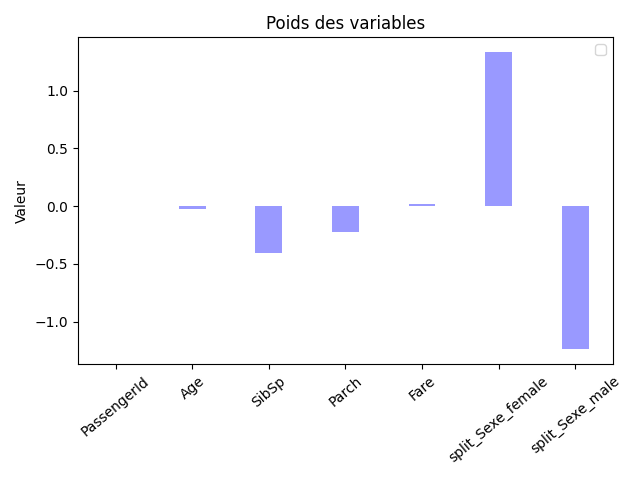
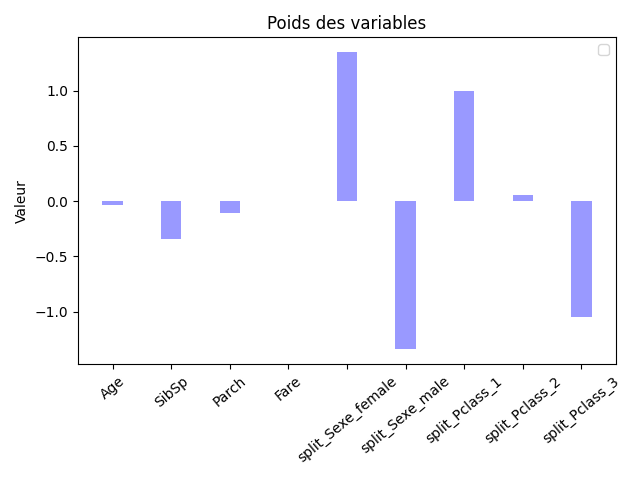
fix: changement

diff --git a/third_model.py b/third_model.py
@@ -16,12 +16,14 @@ def plot_hist(feature, bins=20):
 
 def fix_missing_value(data):
     # median for female
-    female = data[data['Sex'] == 'female']
-    female['Age'] = female['Age'].fillna(np.nanmedian(female['Age']))
-    male = data[data['Sex'] == 'male']
-    male['Age'] = male['Age'].fillna(np.nanmedian(male['Age']))
-    print(female, male)
-    return pd.concat([female, male])
+    # female = data[data['Sex'] == 'female']
+    # female['Age'] = female['Age'].fillna(np.nanmedian(female['Age']))
+    # male = data[data['Sex'] == 'male']
+    # male['Age'] = male['Age'].fillna(np.nanmedian(male['Age']))
+    # print(female, male)
+    # return pd.concat([female, male])
+    data.Age = data.Age.fillna(np.nanmedian(data["Age"]))
+    return data
 
 
 def split_value(data):
@@ -29,6 +31,8 @@ def split_value(data):
     del data['Survived']
     X = data
     class_dummies = pd.get_dummies(X['Sex'], prefix='split_Sexe')
+    X = X.join(class_dummies)
+    class_dummies = pd.get_dummies(X['Pclass'], prefix='split_Pclass')
     X = X.join(class_dummies)
     X['is_child'] = X.Age < 8
     to_del = ['Name', 'Cabin', 'Embarked', 'Ticket', 'Sex', 'Pclass']
@@ -38,11 +42,13 @@ def split_value(data):
 
 
 train = pd.read_csv('data/titanic_train.csv', sep=',')
+train.set_index('PassengerId', inplace=True, drop=True)
 train = fix_missing_value(train)
 survived = train[train.Survived == 1]
 dead = train[train.Survived == 0]
 plot_hist('Age')
 lr = LogisticRegression(max_iter=2000)
-X, y = split_value(train)
+X, y = split_value(train.copy())
 lr.fit(X, y)
+print(utils.compute_score(lr, X,y))
 utils.plot_lr_coefs(X, lr)

diff --git a/second_model.py b/second_model.py
@@ -25,7 +25,7 @@ def parse_model_1(X):
 
 
 train = pd.read_csv('data/titanic_train.csv', sep=',')
-
+train.set_index('PassengerId', inplace=True, drop=True)
 survived = train[train.Survived == 1]
 dead = train[train.Survived == 0]
 plot_hist('Pclass')

diff --git a/utils.py b/utils.py
@@ -1,5 +1,3 @@
-import pandas as pd
-import seaborn as sn
 import numpy as np
 from sklearn.model_selection import cross_val_score
 from sklearn.linear_model import LogisticRegression

diff --git a/TP2.md b/TP2.md
@@ -26,16 +26,16 @@
 ### 2 Premier modèle de niveau 0
 #### question 2
 
-Nous utilisons la validation croisée car l'échantillon de données est trop faible. On ne pourrait pas prendre N données pour apprendre et Y données pour tester car on se retrouverait avec trop peu de données.
+Nous utilisons la validation croisée, car l'échantillon de données est trop faible. On ne pourrait pas prendre N données pour apprendre et Y données pour tester car on se retrouverait avec trop peu de données.
 
 ### 3 Deuxième modèle
 #### Question 3
 
-La variable PClass semble être importante, elle montre que la 3ème classe a subi beaucoup plus de perte que les autres. Elle semble néanmoins moins utile pour discrimer les catégories 1 & 2
+La variable PClass semble être importante, elle montre que la 3ᵉ classe a subi beaucoup plus de perte que les autres. Elle semble néanmoins moins utile pour discrimer les catégories 1 & 2
 
 #### Question 5
 
-On constate que la moyenne des scores est la même que pour le résultat d'avant. Ceci s'explique par le fait que nous venons de retirer des données qui n'étaient pas importantes (non correlé avec la variable cible).
+On constate que la moyenne des scores est sensiblement la même que pour le résultat d'avant. Ceci s'explique par le fait que nous venons de retirer des données qui n'étaient pas importantes (non correlé avec la variable cible).
 
 #### Question 6
 
@@ -47,7 +47,7 @@ D'un autre côté la variable **split_Pclass_1** montre qu'on avait plus de chan
 ### 4 Troisième modèle
 #### Question 3
 ![Image](img/part_4_question_3.png)
-On constate ici que l'on a plus de chance de survivre si l'on est dans la catégorie 'Female' (donc enfant et femme) et que l'on a moins de chance de survivre si l'on est un homme.
+On constate ici que l'on a plus de chance de survivre si l'on est dans la catégorie 'Female' et que l'on a moins de chance de survivre si l'on est un homme.
 "Les femmes et les enfants d'abord".
 
 #### Question 4
